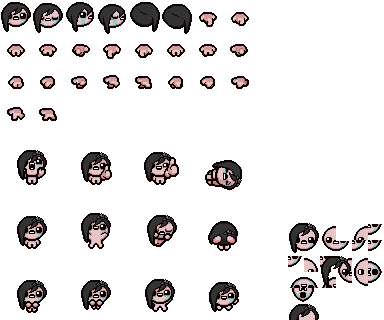
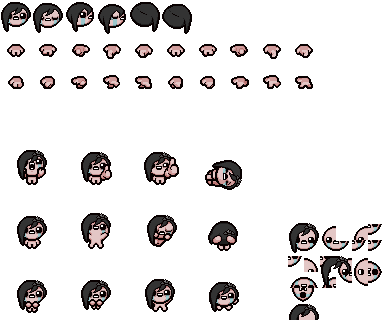
added 2 more player types - with images

diff --git a/src/utils/image_loader.py b/src/utils/image_loader.py
@@ -1,4 +1,5 @@
 import pygame
+from entities.player.player_types import PlayerTypes
 
 class ImageLoader:
     def __init__(self, settings):
@@ -6,7 +7,11 @@ class ImageLoader:
         self.tile_size_tuple = (self.settings.TILE_SIZE, self.settings.TILE_SIZE)
 
         self.menu_ = ["introbackground", "menucard", "settingscard", "menuoverlay", "pausecard", "arrow", "maintitle"]
-        self.mobs_ = ["player", "alpha_maggot", "fly", "legs", "maggot", "parasite", "slime", "wanderer", "ghost", "friend_ghost", "slime_shadow"]
+        
+        self.player_types = [PlayerTypes.ISAAC.value, PlayerTypes.RED_HEAD.value, PlayerTypes.WOMAN.value]
+        self.mobs_ = ["alpha_maggot", "fly", "legs", "maggot", "parasite", "slime", "wanderer", "ghost", "friend_ghost", "slime_shadow"]
+        self.mobs_.extend(self.player_types)
+
         self.rooms_ = ["controls", "shading", "shop_room", "basement", "cave"]
         self.doors_ = ["boss_door", "devil_door", "basement_door1", "red_door"]
         self.blocks_ = ["rocks"]
@@ -42,7 +47,7 @@ class ImageLoader:
         self.minimap = {}
         self.load_minimap()
 
-        self.player_animation = {}
+        self.player_animations_list = []
         self.load_player_animation()
 
     def load_images_to_dict(self):
@@ -53,7 +58,7 @@ class ImageLoader:
             img = pygame.image.load("resources/mobs/" + mob + ".png").convert_alpha()
             frames_in_row, frames_in_col = img.get_width()/32, img.get_height()/32
             size = self.settings.MOB_SIZE
-            if mob == "player":
+            if mob in self.player_types:
                 size = self.settings.PLAYER_SIZE
             new_size = (frames_in_row * size), (frames_in_col * size)
             self.images_dict[mob] = pygame.transform.scale(img, new_size)
@@ -218,17 +223,21 @@ class ImageLoader:
         self.minimap["boss_icon"] = pygame.transform.scale(self.images_dict["minimap"].subsurface(pygame.Rect(111, 60, 19, 15)), cell_size).convert_alpha()
 
     def load_player_animation(self):
-        img = pygame.image.load(f"resources/mobs/player.png")
         frame_names = ["die2", "like0", "like1", "die4", 
                        "die0", "pick", "die3", "bad1",
                        "die1", "sit", "happy0", "happy1"]
-        index = 0
-        for y in range(2, 5):
-            for x in range(4):
-               sub_img = img.subsurface(pygame.Rect(x * 64, y * 64, 64, 64))
-               new_size = int(1.95*self.settings.PLAYER_SIZE), int(1.95*self.settings.PLAYER_SIZE)
-               self.player_animation[frame_names[index]] = pygame.transform.scale(sub_img, new_size).convert_alpha()
-               index += 1
+        
+        for player_type in self.player_types:
+            index = 0
+            img = pygame.image.load(f"resources/mobs/{player_type}.png")
+            player_animation = {}
+            self.player_animations_list.append(player_animation)
+            for y in range(2, 5):
+                for x in range(4):
+                    sub_img = img.subsurface(pygame.Rect(x * 64, y * 64, 64, 64))
+                    new_size = int(1.95*self.settings.PLAYER_SIZE), int(1.95*self.settings.PLAYER_SIZE)
+                    player_animation[frame_names[index]] = pygame.transform.scale(sub_img, new_size).convert_alpha()
+                    index += 1
 
     def get_image(self, name: str):
         return self.images_dict[name]

diff --git a/src/entities/player/player.py b/src/entities/player/player.py
@@ -3,13 +3,13 @@ from config import *
 from entities.bomb import Bomb
 from entities.mobs.friendly_ghost import FriendlyGhost
 from entities.player.equipment import Equipment
-from entities.player.stat_bars import StatBars
+from entities.player.player_types import PlayerTypes
 from items.item_types import ItemType
 from utils.directions import Directions
 from ..bullet import Bullet
 
 class Player(pygame.sprite.Sprite):
-    def __init__(self, game, x, y):
+    def __init__(self, game, x, y, player_type=PlayerTypes.ISAAC):
         #MAIN
         self.game = game
         self.max_health = BASE_HEALTH
@@ -20,9 +20,10 @@ class Player(pygame.sprite.Sprite):
         #self.bombs = 0
         self.bombs = 10
         self.rooms_cleared = 0
+        self.player_type = player_type
 
         #SKIN
-        self.img = game.image_loader.get_image("player")
+        self.img = game.image_loader.get_image(player_type.value)
         self.body_images = []
         self.head_images = []
         self.prepare_images()
@@ -384,7 +385,7 @@ class Player(pygame.sprite.Sprite):
                 return
             
             frame_name = "die" + str(self.death_index)
-            self.image = self.game.image_loader.player_animation[frame_name]
+            self.image = self.game.image_loader.player_animations_list[self.player_type.get_index()][frame_name]
             self.rect.width = self.image.get_width()
             self.rect.height = self.image.get_height()
             self.rect.centerx = center_x

diff --git a/src/entities/player/player_types.py b/src/entities/player/player_types.py
@@ -1,0 +1,12 @@
+from enum import Enum
+
+class PlayerTypes(Enum):
+    ISAAC = 'player'
+    RED_HEAD = 'lazarus'
+    WOMAN = 'eve'
+
+    def get_index(self):
+        vocabulary = {PlayerTypes.ISAAC: 0, 
+                      PlayerTypes.RED_HEAD: 1, 
+                      PlayerTypes.WOMAN: 2}
+        return vocabulary[self]
